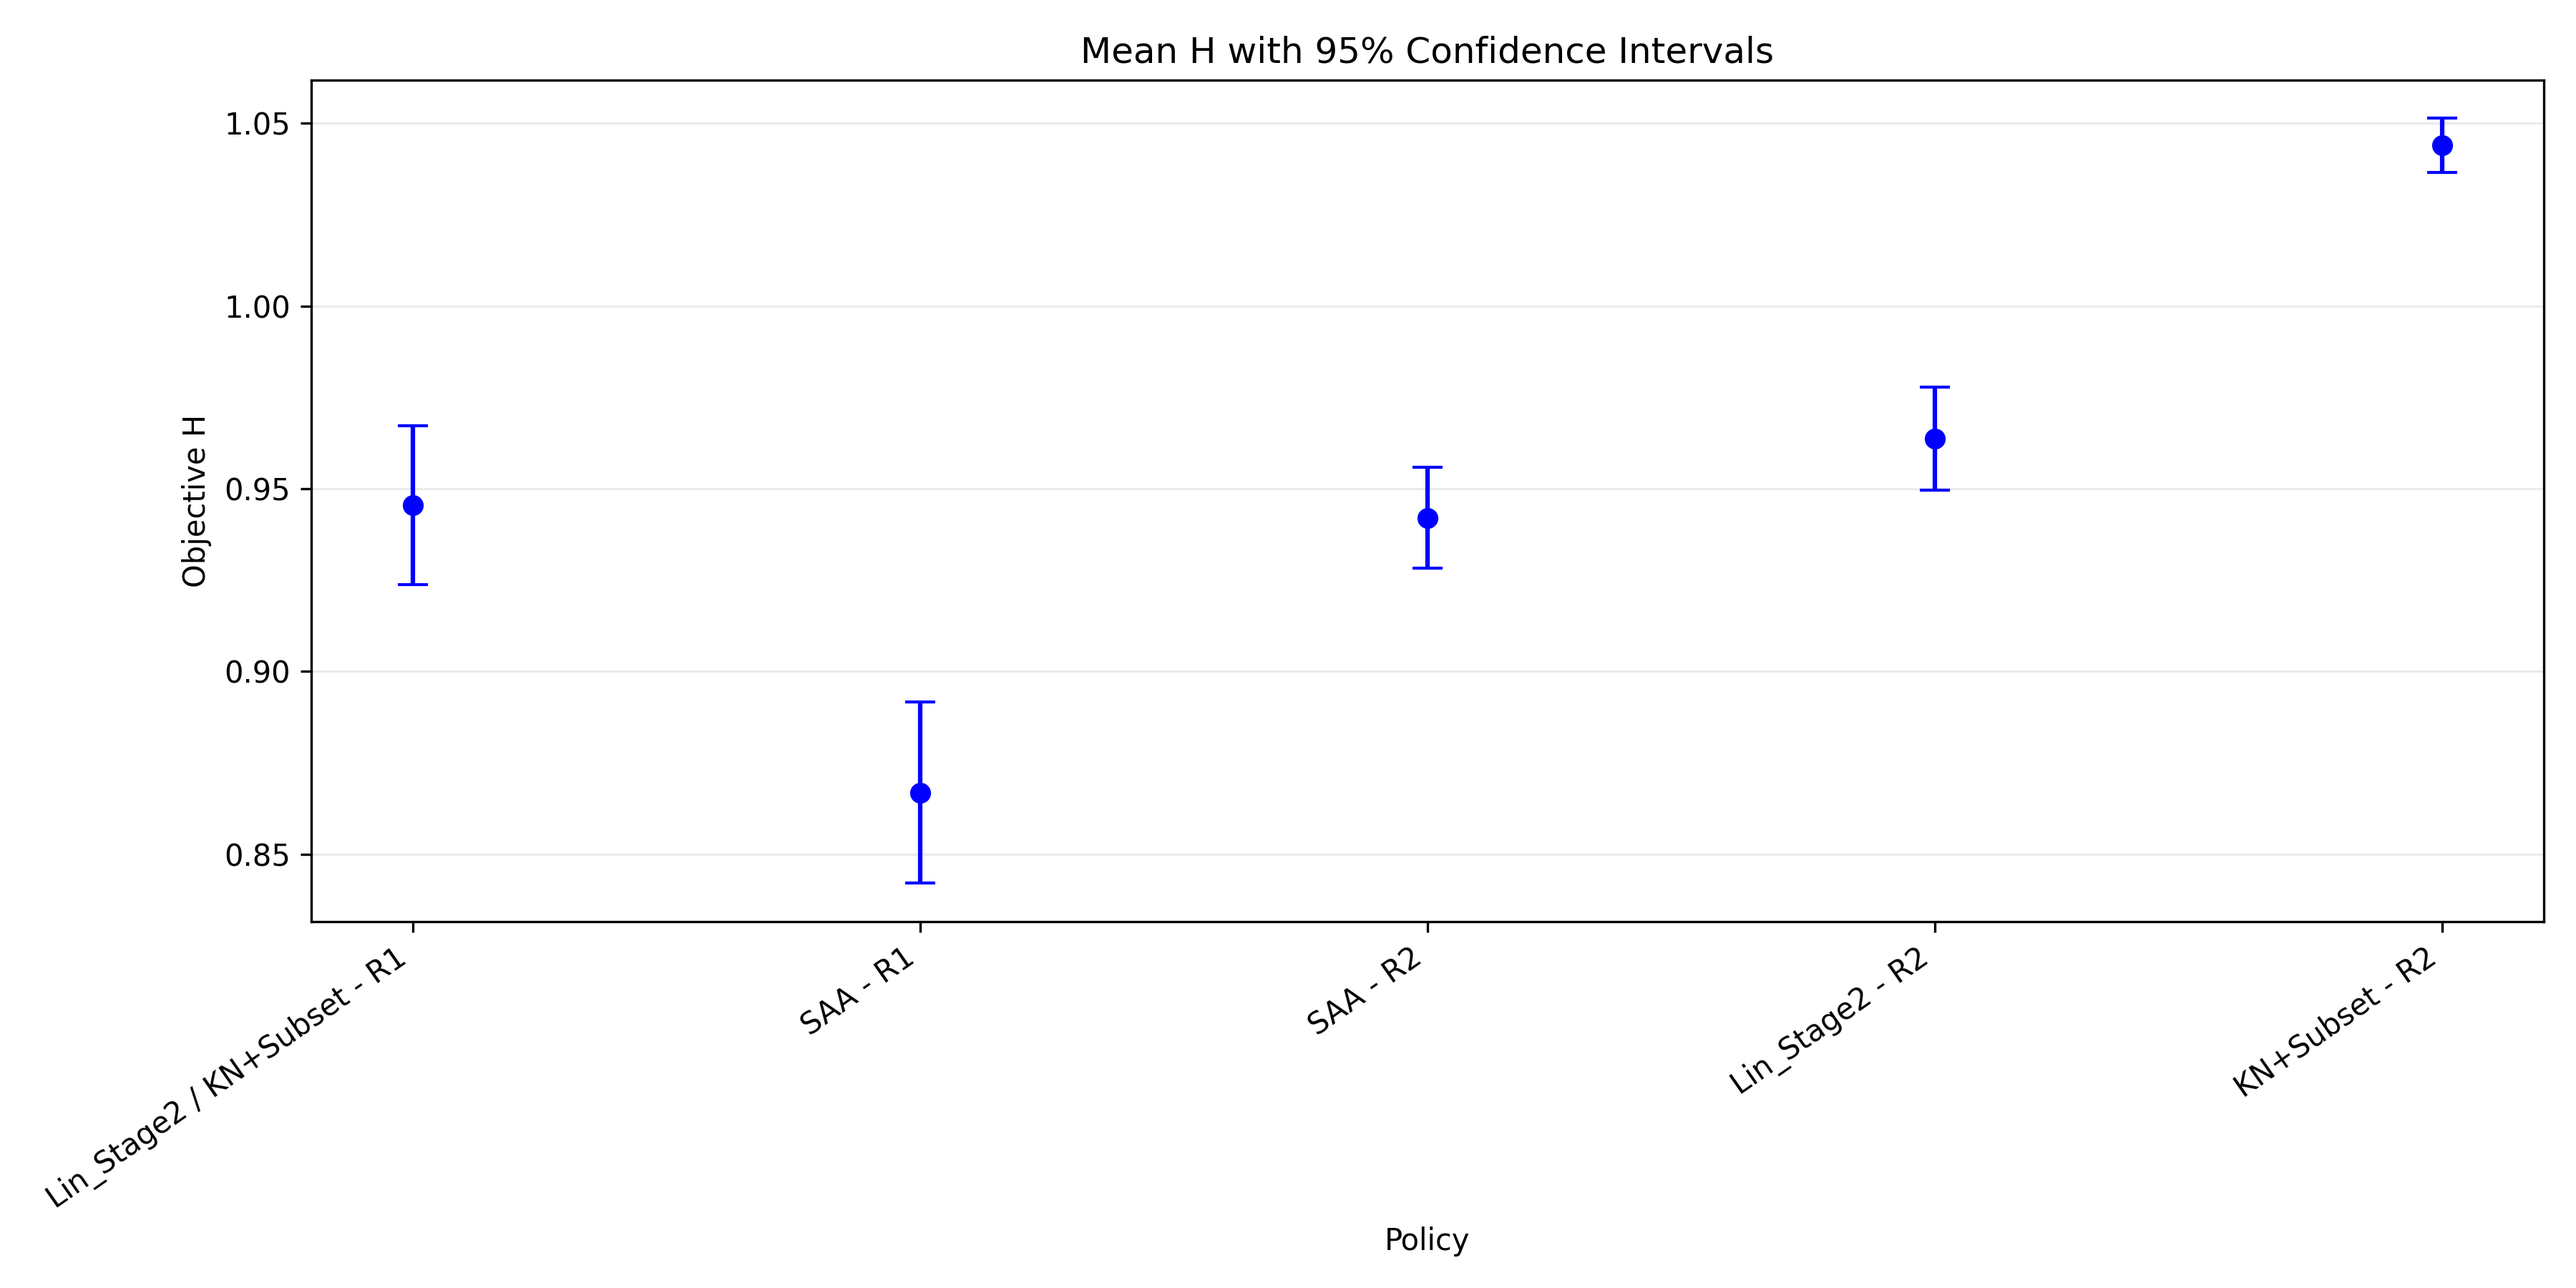
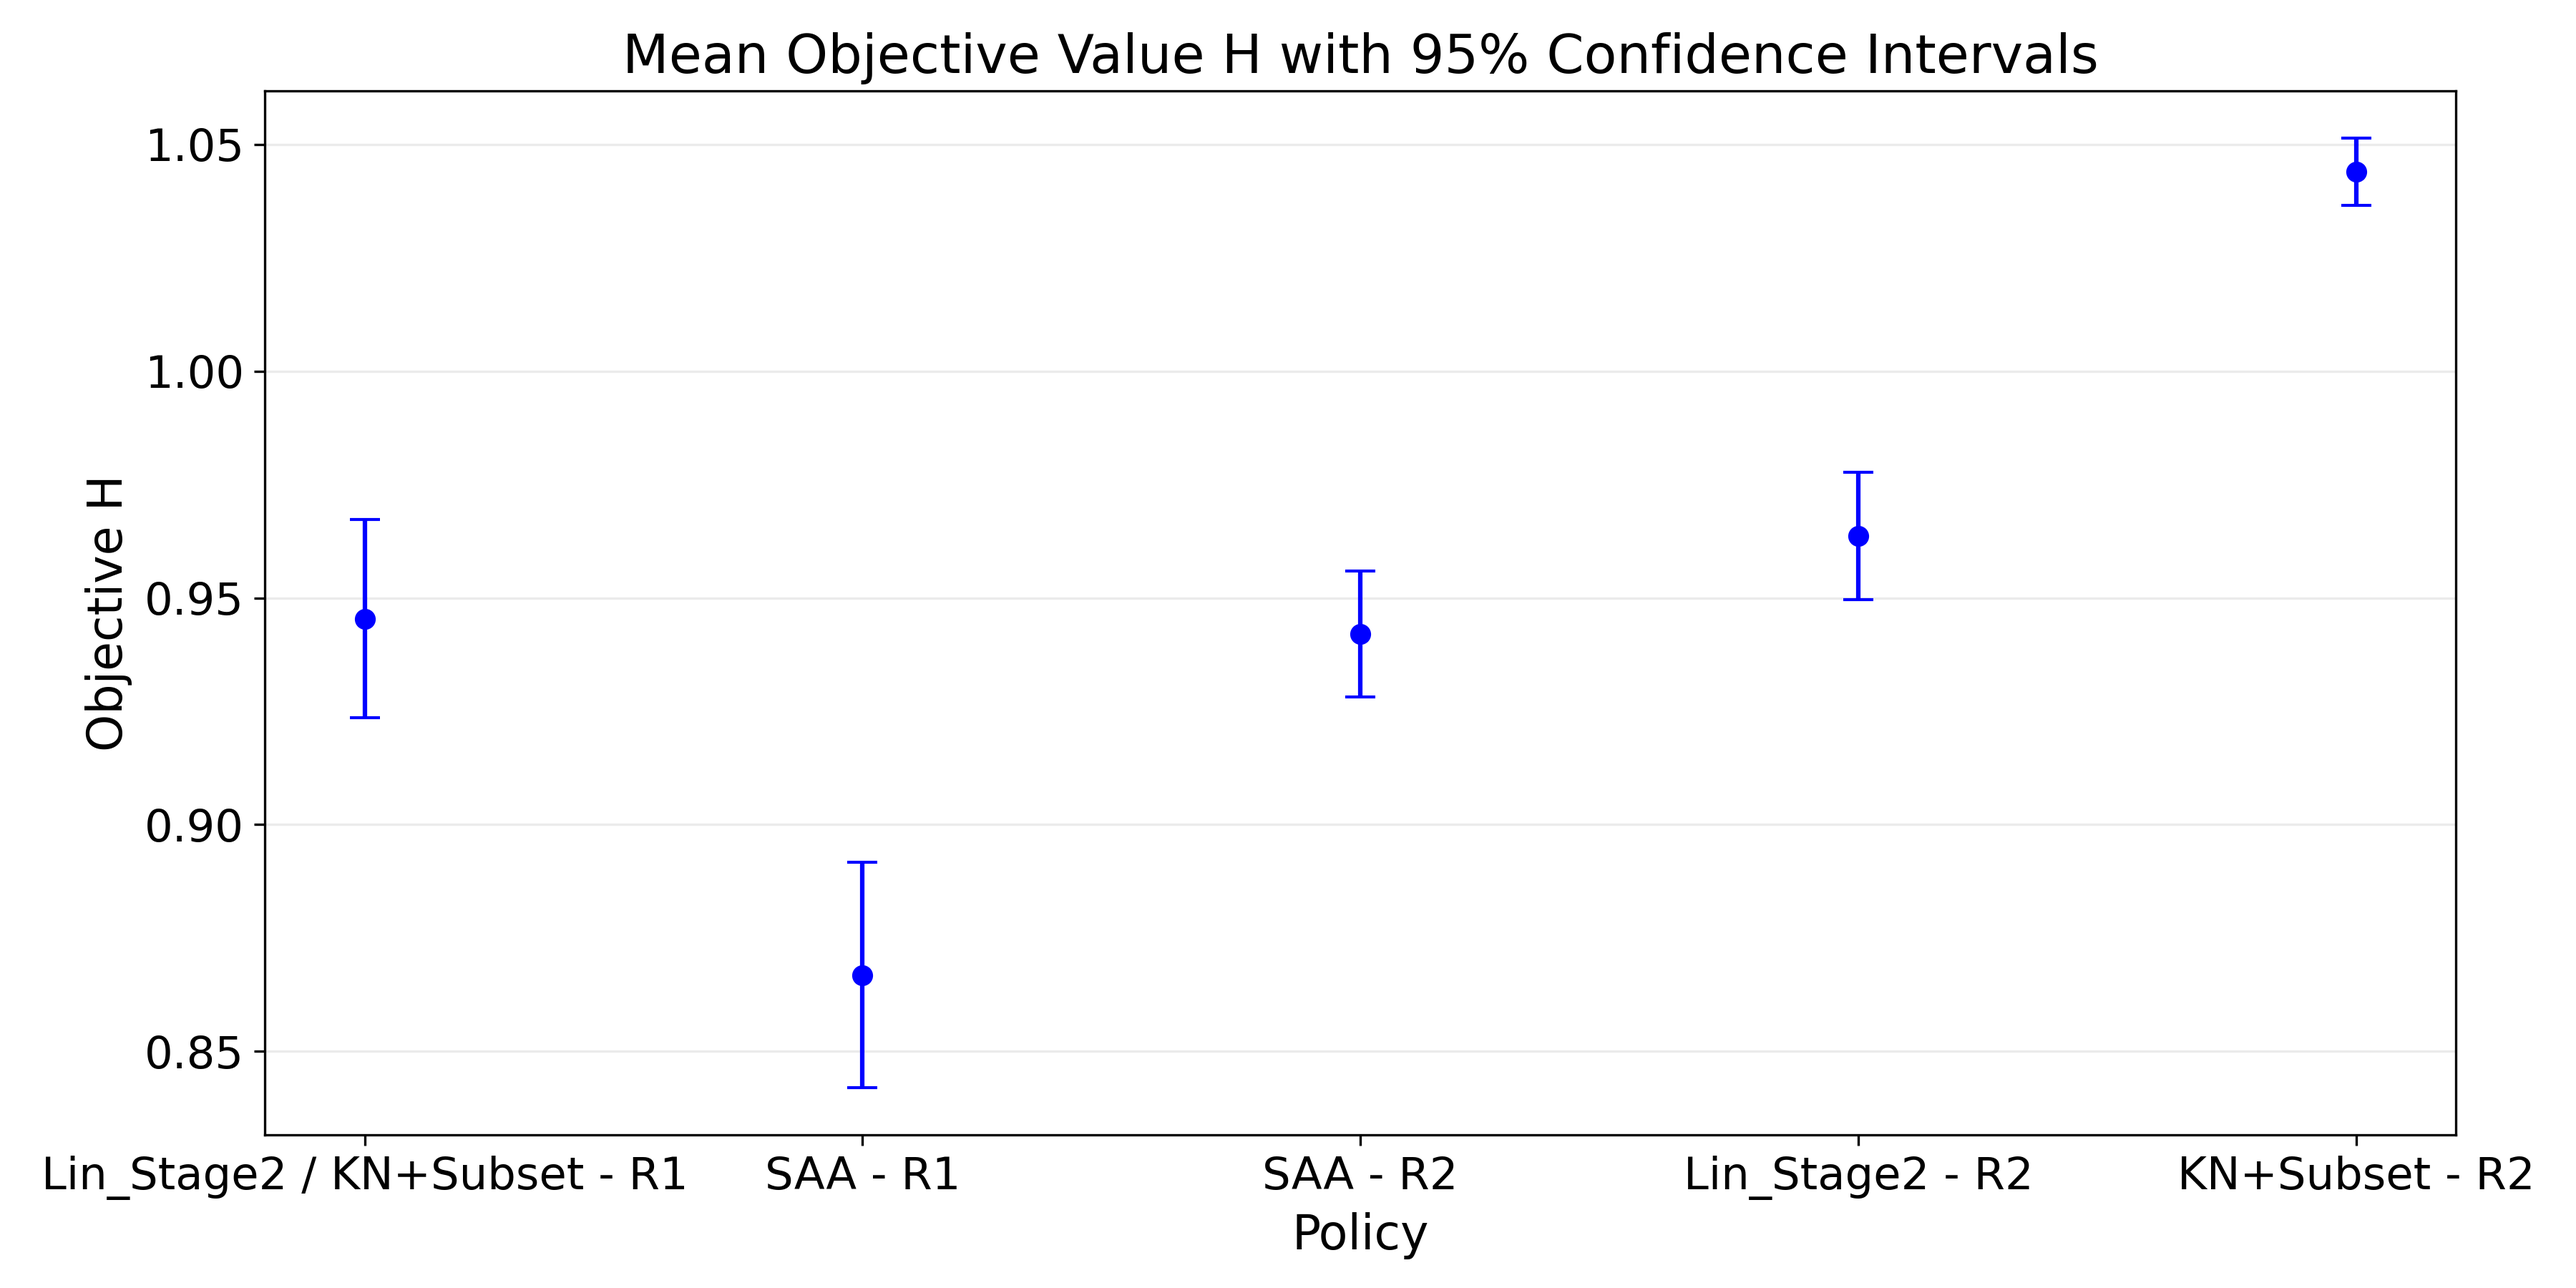
graph_anlaysis_updated

diff --git a/Result_Analysis.py b/Result_Analysis.py
@@ -11,6 +11,13 @@ EVALUATE_POLICY_DIR = Path("evaluate_policy")
 ANALYSIS_OUTPUT_DIR = Path("result_analysis_outputs")
 Z_VALUE_95 = 1.96
 BASELINE_POLICY_NAME = "R1_840a3320_SAA2"
+TITLE_FONT_SIZE = 18
+AXIS_LABEL_FONT_SIZE = 16
+TICK_LABEL_FONT_SIZE = 15
+SHOW_PLOTS = True
+Z1_NORMALIZER = 28.0
+Z2_NORMALIZER = 2.5
+Z3_NORMALIZER = 2.0
 MERGED_PLOT_GROUPS = [
     (
         ("R1_3d503d0e_Lin", "R1_c5d534fd_SubsetKN"),
@@ -42,6 +49,10 @@ def _policy_label(policy_name: str) -> str:
     method = _method_from_policy_name(policy_name)
     timetable = _timetable_from_policy_name(policy_name)
     return f"{method} - {timetable}"
+
+
+def _format_policy_tick_label(label: str) -> str:
+    return label.replace(" / ", " /\n").replace(" - ", "\n")
 
 
 def _load_eval_tables() -> dict[str, pd.DataFrame]:
@@ -147,14 +158,14 @@ def _save_box_plot(summary_df: pd.DataFrame, policy_tables: dict[str, pd.DataFra
 
     fig, ax = plt.subplots(figsize=(12, 6))
     ax.boxplot(box_data, tick_labels=labels, patch_artist=True)
-    ax.set_xlabel("Policy")
-    ax.set_ylabel("Objective H")
-    ax.set_title("Box Plot of H Across 100 Replications")
-    ax.tick_params(axis="x", rotation=35)
+    ax.set_xlabel("Policy", fontsize=AXIS_LABEL_FONT_SIZE)
+    ax.set_ylabel("Objective H", fontsize=AXIS_LABEL_FONT_SIZE)
+    ax.set_title("Objective Value H Across 100 Replications", fontsize=TITLE_FONT_SIZE)
+    ax.tick_params(axis="x", labelsize=TICK_LABEL_FONT_SIZE)
+    ax.tick_params(axis="y", labelsize=TICK_LABEL_FONT_SIZE)
     ax.grid(axis="y", alpha=0.25)
     fig.tight_layout()
     fig.savefig(output_path, dpi=300)
-    plt.close(fig)
     return output_path
 
 
@@ -182,14 +193,45 @@ def _save_mean_ci_plot(summary_df: pd.DataFrame, policy_tables: dict[str, pd.Dat
         capsize=5,
     )
     ax.set_xticks(x)
-    ax.set_xticklabels(labels, rotation=35, ha="right")
-    ax.set_xlabel("Policy")
-    ax.set_ylabel("Objective H")
-    ax.set_title("Mean H with 95% Confidence Intervals")
+    ax.set_xticklabels(labels, fontsize=TICK_LABEL_FONT_SIZE)
+    ax.set_xlabel("Policy", fontsize=AXIS_LABEL_FONT_SIZE)
+    ax.set_ylabel("Objective H", fontsize=AXIS_LABEL_FONT_SIZE)
+    ax.set_title("Mean Objective Value H with 95% Confidence Intervals", fontsize=TITLE_FONT_SIZE)
+    ax.tick_params(axis="y", labelsize=TICK_LABEL_FONT_SIZE)
     ax.grid(axis="y", alpha=0.25)
     fig.tight_layout()
     fig.savefig(output_path, dpi=300)
-    plt.close(fig)
+    return output_path
+
+
+def _save_normalized_z_bar_plot(summary_df: pd.DataFrame, policy_tables: dict[str, pd.DataFrame]) -> Path:
+    output_path = _ensure_output_dir() / "evaluate_policy_Z_normalized_bar.png"
+
+    plot_entries = _build_plot_entries(summary_df, policy_tables)
+    labels = [entry["label"] for entry in plot_entries]
+    tick_labels = [_format_policy_tick_label(label) for label in labels]
+    z1_values = np.array([float(entry["row"].mean_Z1) / Z1_NORMALIZER for entry in plot_entries], dtype=float)
+    z2_values = np.array([float(entry["row"].mean_Z2) / Z2_NORMALIZER for entry in plot_entries], dtype=float)
+    z3_values = np.array([float(entry["row"].mean_Z3) / Z3_NORMALIZER for entry in plot_entries], dtype=float)
+
+    x = np.arange(len(plot_entries))
+    width = 0.24
+
+    fig, ax = plt.subplots(figsize=(14, 8))
+    ax.bar(x - width, z1_values, width, label=f"Z1 / {Z1_NORMALIZER:g}")
+    ax.bar(x, z2_values, width, label=f"Z2 / {Z2_NORMALIZER:g}")
+    ax.bar(x + width, z3_values, width, label=f"Z3 / {Z3_NORMALIZER:g}")
+    ax.set_xticks(x)
+    ax.set_xticklabels(tick_labels, fontsize=TICK_LABEL_FONT_SIZE)
+    ax.tick_params(axis="x", labelsize=TICK_LABEL_FONT_SIZE, pad=8)
+    ax.set_xlabel("Policy", fontsize=AXIS_LABEL_FONT_SIZE)
+    ax.set_ylabel("Normalized Value", fontsize=AXIS_LABEL_FONT_SIZE)
+    ax.set_title("Normalized Comparison of Z1, Z2, and Z3 Across Policies", fontsize=TITLE_FONT_SIZE)
+    ax.tick_params(axis="y", labelsize=TICK_LABEL_FONT_SIZE)
+    ax.legend(fontsize=TICK_LABEL_FONT_SIZE - 1)
+    ax.grid(axis="y", alpha=0.3)
+    fig.tight_layout()
+    fig.savefig(output_path, dpi=300)
     return output_path
 
 
@@ -254,6 +296,7 @@ def main() -> None:
     summary_path = _save_summary_table(summary_df)
     box_plot_path = _save_box_plot(summary_df, policy_tables)
     mean_ci_plot_path = _save_mean_ci_plot(summary_df, policy_tables)
+    normalized_z_plot_path = _save_normalized_z_bar_plot(summary_df, policy_tables)
     diff_df = pairwise_comparison(summary_df, policy_tables)
     diff_path = _ensure_output_dir() / "pairwise_comparison.csv"
     diff_df.to_csv(diff_path, index=False)
@@ -291,6 +334,10 @@ def main() -> None:
     print(f"Saved pairwise comparison table to {diff_path}")
     print(f"Saved H box plot to {box_plot_path}")
     print(f"Saved H mean/CI plot to {mean_ci_plot_path}")
+    print(f"Saved normalized Z bar plot to {normalized_z_plot_path}")
+    if SHOW_PLOTS:
+        plt.show()
+    plt.close("all")
 
 
 if __name__ == "__main__":
